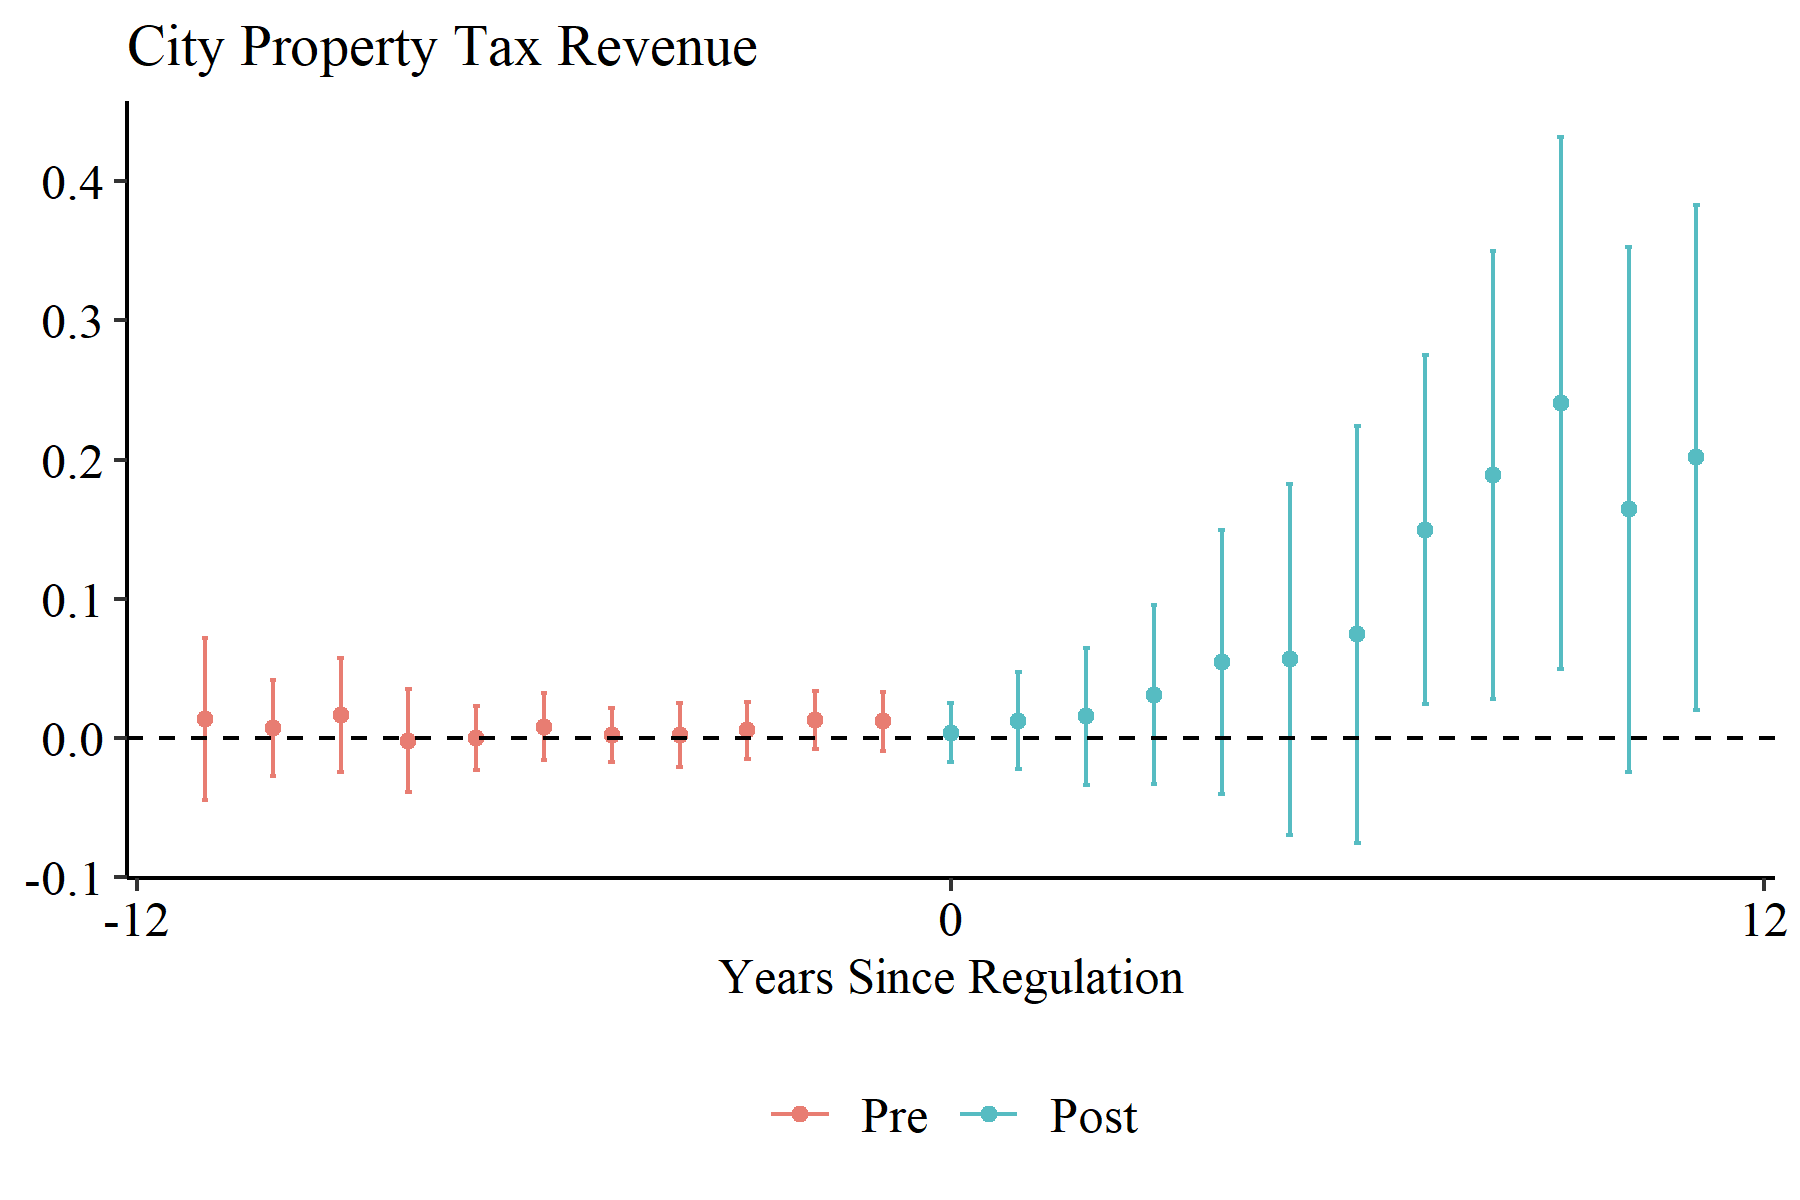
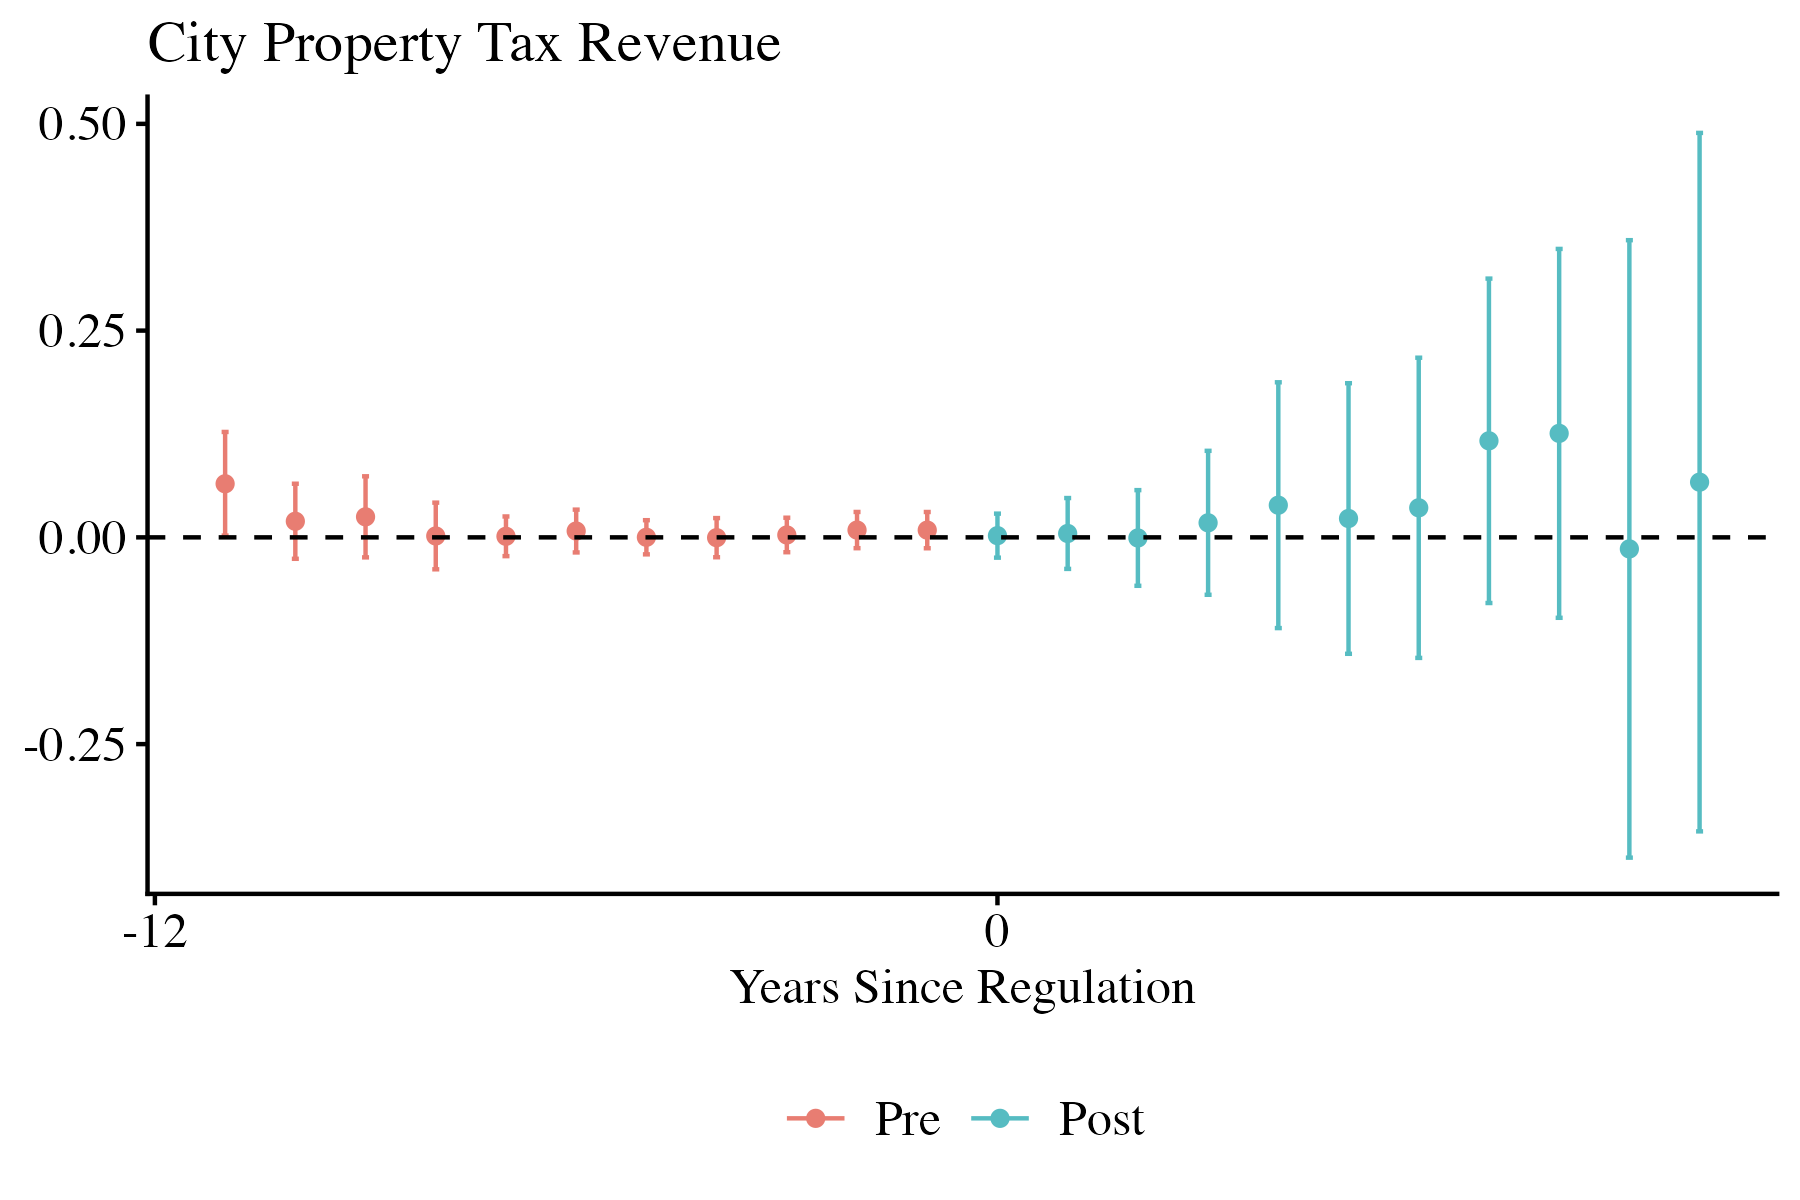
new results, cleaner

diff --git a/scripts/00_build_analysis_data.py b/scripts/00_build_analysis_data.py
@@ -6,6 +6,9 @@ import pandas as pd
 import numpy as np
 import dotenv
 
+import warnings
+warnings.filterwarnings("ignore", category=pd.errors.PerformanceWarning)
+
 dotenv.load_dotenv(dotenv.find_dotenv())
 
 ROOT_PATH = os.getenv("ROOT_PATH")
@@ -57,8 +60,8 @@ df = df.merge(
 )
 
 df = df.merge(
-    zhvi_long.rename(columns={'RegionName': 'zhvi_city'})[['zhvi_city', 'year', 'ZHVI']],
-    on=['zhvi_city', 'year'],
+    zhvi_long,
+    on=['RegionID', 'year'],
     how='inner'
 )
 
@@ -76,6 +79,19 @@ df['passage_year'] = df['best_passage'].dt.year
 df['years_from_enforcement'] = (df['year'] - df['enforcement_year'])
 df['years_from_passage'] = (df['year'] - df['passage_year'])
 
+
+# %%
+# for cities with an enforcement date, drop rows >12 years to/from enforcement
+
+mask = (np.abs(df['years_from_enforcement']) > 12) & (df['years_from_enforcement'].notna())
+df = df.loc[~mask].reset_index(drop=True)
+
+# for cities without an enforcement date, drop years outside the min/max of the remaining data
+
+year_min = df.loc[df['best_enforcement'].notna(), 'year'].min()
+year_max = df.loc[df['best_enforcement'].notna(), 'year'].max()
+mask = (df['year'] < year_min) | (df['year'] > year_max)
+df = df.loc[~mask].reset_index(drop=True)
 
 # %%
 # change enforcement and passage year to 0 for cities without enforcement/passage dates
